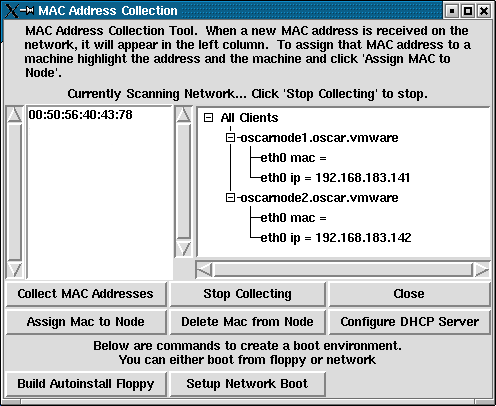
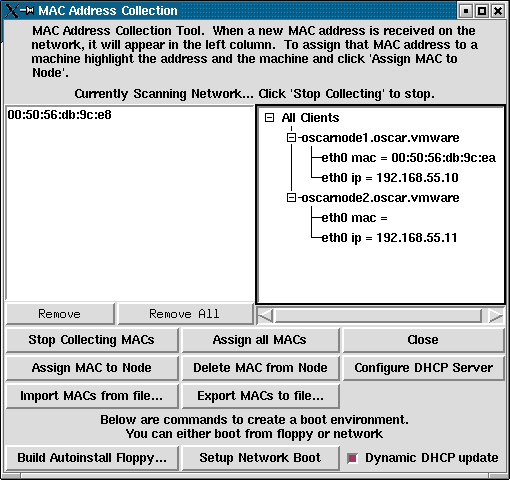
New text and screenshots for OSCAR 2.2
git-svn-id: http://svn.oscar.openclustergroup.org/oscar/trunk@1659 18f9d06c-6ae2-0310-8438-938a554feff9

Former-commit-id: 1c9c17c9f07f4f3e968b38e0eb2cefa3543d733d

diff --git a/doc/installation/detailed.tex b/doc/installation/detailed.tex
@@ -7,7 +7,7 @@
 % information, see the COPYING file in the top level directory of the
 % OSCAR source distribution.
 %
-% $Id: detailed.tex,v 1.56 2003/02/11 21:46:57 mchasal Exp $
+% $Id: detailed.tex,v 1.57 2003/02/25 13:50:19 jsquyres Exp $
 %
 % $COPYRIGHT$
 %
@@ -827,6 +827,7 @@ you want to create.
 
   \begin{figure}[htbp]
     \begin{center}
+      % JMS Need this one with right net numbers and domainname
       \includegraphics[scale=\imgscale]{figs/5a_sbs-define-clients1}
       \caption{Define the Clients.}
       \label{fig:detailed-define-clients}
@@ -876,24 +877,60 @@ therefore have an address of the form 192.168.2.x.  And so on.
 In order to collect the MAC addresses, press the \button{Setup
   Networking} button. The OSCAR network utility dialog box will be
 displayed.  To use this tool, you will need to know how to network
-boot your client nodes.  \detailed{For instructions on doing so, see
-  Appendix~\ref{app:net-boot-client-nodes}. A sample dialog is shown
-  in Figure~\ref{fig:detailed-collect-mac}.}
+boot your client nodes, or have a file that lists all the MACs from
+your cluster.  \detailed{For instructions on doing network booting,
+  see Appendix~\ref{app:net-boot-client-nodes}. A sample dialog is
+  shown in Figure~\ref{fig:detailed-collect-mac}.}
 
-To start the collection, press the \button{Collect MAC Address} button
-and then network boot the first client.  As the clients boot up, their
-MAC addresses will show up in the left hand window. Select a MAC
-address and the appropriate client in the right side window. Click
-\button{Assign MAC to Node} to associate that MAC address with that
-node. If you would like to make specific nodes associated with
-specific client definitions, you should boot them one at a time. If
-you do not care which node gets associated with which client, you may
-boot them all at once and randomly assign the MAC addresses.
+If you need to collect the MACs in your cluster, start the collection
+by pressing the \button{Collect MAC Address} button and then network
+boot the first client.  As the clients boot up, their MAC addresses
+will show up in the left hand window. You have multiple options for
+assigning MACs to nodes; you can either:
 
-When you have collected all of the MAC addresses, click the
-\button{Stop Collecting} button and then click the \button{Configure
-  DHCP Server} button to configure the DHCP server.
- 
+\begin{itemize}
+\item manually select MAC address and the appropriate client in the
+  right side window. Click \button{Assign MAC to Node} to associate
+  that MAC address with that node.
+  
+\item click \button{Assign all MACs} button to assign all the MACs in
+  the left hand window to all the open nodes in the right hand window.
+\end{itemize}
+
+\noindent Some notes that are relevant to collecting MAC addresses from the
+network:
+
+\begin{itemize}
+\item The \button{Dynamic DHCP Update} checkbox at the bottom right of
+  the window controls refreshing the DHCP server.  If it is selected
+  (the default), the DHCP server configuration will be refreshed each
+  time a MAC is assigned to a node.  If it is off, you will need to
+  click the \button{Configure DHCP Server} (at least once) to give it
+  the associations between MACs and IP addresses.
+  
+\detailed {  
+\item To remove extraneous MAC addresses from the left hand window
+  (e.g., if the collector finds MACs that are not part of your
+  cluster), select the address and click on the \button{Remove}
+  button.  Or click on the \button{Remove All} button to remove all of
+  them.
+
+\item At any time, you may click on the \button{Export MACs to
+    file...} button to save the MAC address list to a file.  If you
+    need to re-run the OSCAR installation, you can later click on
+    \button{Import MACs from file...} to import this file rather than
+    re-collecting all the MACs.
+
+\item When you have collected all of the MAC addresses, click the
+  \button{Stop Collecting MACs} button.  If you do not have
+  \button{Dynamic DHCP update} selected, you need to click the
+  \button{Configure DHCP Server} button to configure the DHCP server.
+}
+
+\item You {\em must} click on the \button{Stop Collecting MACs} before
+  closing the MAC Address Collection window!
+\end{itemize}
+
 You may also configure your remote boot method from this panel. The
 \button{Build Autoinstall Floppy} button will build a boot floppy for
 client nodes that do not support PXE booting. The \button{Setup
@@ -908,6 +945,7 @@ requests if your client hardware supports it. \detailed{See
 
   \begin{figure}[htbp]
     \begin{center}
+      % JMS Need this one with right net numbers and domainname
       \includegraphics[scale=\imgscale]{figs/6e_sbs-found-mac}
       \caption{Collect client MAC addresses.}
       \label{fig:detailed-collect-mac}

diff --git a/doc/installation/defs.tex b/doc/installation/defs.tex
@@ -1,6 +1,6 @@
 % -*- latex -*-
 %
-% $Id: defs.tex,v 1.16 2003/02/24 23:30:37 naughtont Exp $
+% $Id: defs.tex,v 1.17 2003/02/25 13:50:18 jsquyres Exp $
 %
 % $COPYRIGHT$
 %
@@ -38,13 +38,12 @@
               colorlinks=true,
               linkcolor=blue,filecolor=blue,pagecolor=blue,urlcolor=blue
               ]{hyperref}
-  \def\imgscale{0.5}
 \else
   \usepackage[colorlinks=true,
               linkcolor=blue,filecolor=blue,pagecolor=blue,urlcolor=blue
               ]{hyperref}
-  \def\imgscale{1}
 \fi
+\def\imgscale{0.5}
 
 % Stoopid European-based Linux distributions...
 % Gotta force letter size paper, not A4
